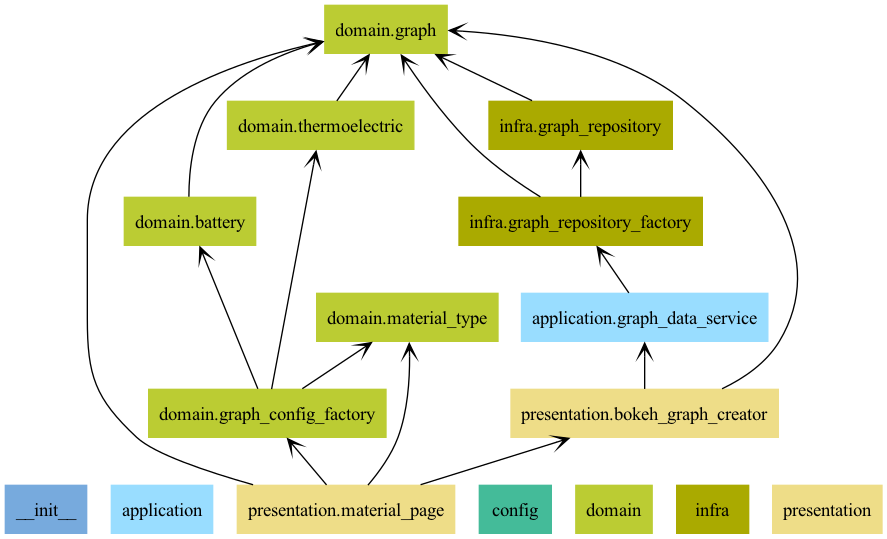
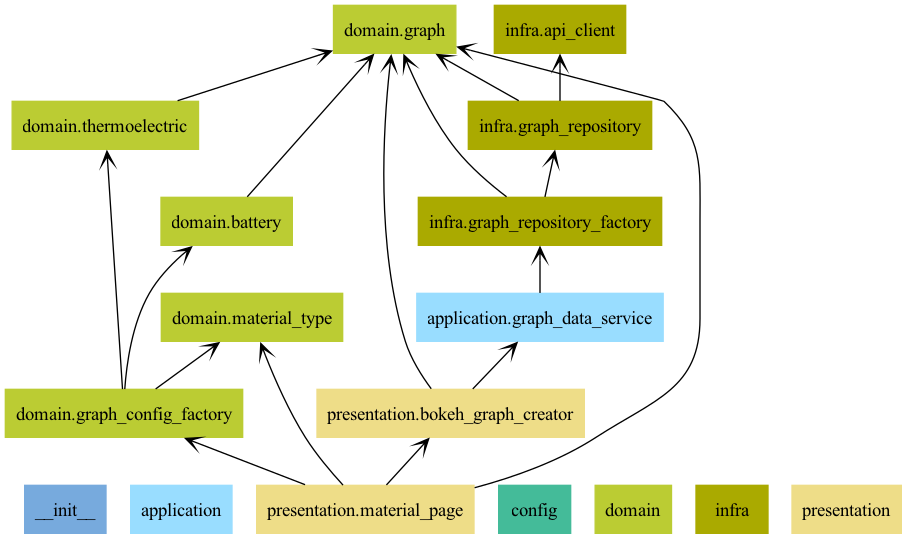
refactor: added api client to make a spec for API

diff --git a/src/infra/graph_repository.py b/src/infra/graph_repository.py
@@ -2,12 +2,18 @@ import os
 
 import requests
 from domain.graph import XYPoint, XYPoints, XYSeries, GraphRepository
+from infra.api_client import Starrydata2ApiClient, CleansingDatasetApiClient, XYApiResponse
 
 
 class GraphRepositoryApiStarrydata2(GraphRepository):
+    def __init__(self, api_client=None):
+        host = os.environ.get("STARRYDATA2_API_XY_DATA")
+        if not host:
+            raise ValueError("STARRYDATA2_API_XY_DATA environment variable is not set.")
+        self.api_client = api_client or Starrydata2ApiClient(host)
+
     def get_graph_by_property(self, property_x: str, property_y: str) -> XYSeries:
         # API呼び出し・データ取得処理は省略（必要に応じて実装）
-        # ここでは空リストを返す例
         return XYSeries(data=[])
 
     def get_graph_by_property_and_unit(self, property_x: str, property_y: str, unit_x: str, unit_y: str) -> XYSeries:
@@ -16,15 +22,14 @@ class GraphRepositoryApiStarrydata2(GraphRepository):
         最新データはJSTで前日0時以降のデータのみ取得すれば全件網羅できる。
         date_from, date_toが指定されていない場合は、date_fromをJST前日0時、date_toを現在時刻に自動設定する。
         """
+
         import pytz
         from datetime import datetime, timedelta
         JST = pytz.timezone('Asia/Tokyo')
         now = datetime.now(JST)
-        # 前日0時
         date_from_dt = (now - timedelta(days=1)).replace(hour=0, minute=0, second=0, microsecond=0)
         date_from = date_from_dt.isoformat()
         date_to = now.isoformat()
-        host = os.environ.get("STARRYDATA2_API_XY_DATA")
         params = {
             "property_x": property_x,
             "property_y": property_y,
@@ -32,15 +37,13 @@ class GraphRepositoryApiStarrydata2(GraphRepository):
             "unit_y": unit_y,
             "date_from": date_from,
             "date_to": date_to,
-            "limit": 100 # 上限値を設定
+            "limit": 100
         }
-        response = requests.get(f"{host}/", params=params)
-        response.raise_for_status()
-        data = response.json().get("data", {})
-        x_lists = data.get("x", [])
-        y_lists = data.get("y", [])
-        updated_at_lists = data.get("updated_at", [])
-
+        api_data: XYApiResponse = self.api_client.fetch_xy_data(params)
+        x_lists = api_data.x
+        y_lists = api_data.y
+        updated_at_lists = api_data.updated_at
+        sid_lists = api_data.SID or [str(i) for i in range(len(x_lists))]
         xy_series = []
         for i, (x_list, y_list) in enumerate(zip(x_lists, y_lists)):
             if x_list and y_list and len(x_list) == len(y_list):
@@ -48,21 +51,22 @@ class GraphRepositoryApiStarrydata2(GraphRepository):
                     raise ValueError("updated_at is required for each data series, but missing at index {}".format(i))
                 updated_at = updated_at_lists[i]
                 points = [XYPoint(x=xi, y=yi) for xi, yi in zip(x_list, y_list)]
-                xy_series.append(XYPoints(data=points, updated_at=updated_at, sid=f"sid_{i}"))
-
+                xy_series.append(XYPoints(data=points, updated_at=updated_at, sid=sid_lists[i]))
         return XYSeries(data=xy_series)
 
 class GraphRepositoryApiCleansingDataset(GraphRepository):
-    def get_graph_by_property(self, property_x: str, property_y: str) -> XYSeries:
+    def __init__(self, api_client=None):
         host = os.environ.get("STARRYDATA_BULK_DATA_API")
-        path = f"{host}/{property_x}-{property_y}.json"
-        response = requests.get(path)
-        response.raise_for_status()
-        data = response.json().get("data", {})
-        x_lists = data.get("x", [])
-        y_lists = data.get("y", [])
-        updated_at_lists = data.get("updated_at", [])
+        if not host:
+            raise ValueError("STARRYDATA_BULK_DATA_API environment variable is not set.")
+        self.api_client = api_client or CleansingDatasetApiClient(host)
 
+    def get_graph_by_property(self, property_x: str, property_y: str) -> XYSeries:
+        api_data: XYApiResponse = self.api_client.fetch_xy_data(property_x, property_y)
+        x_lists = api_data.x
+        y_lists = api_data.y
+        updated_at_lists = api_data.updated_at
+        sid_lists = api_data.SID or [str(i) for i in range(len(x_lists))]
         xy_series = []
         for i, (x_list, y_list) in enumerate(zip(x_lists, y_lists)):
             if x_list and y_list and len(x_list) == len(y_list):
@@ -70,9 +74,8 @@ class GraphRepositoryApiCleansingDataset(GraphRepository):
                     raise ValueError("updated_at is required for each data series, but missing at index {}".format(i))
                 updated_at = updated_at_lists[i]
                 points = [XYPoint(x=xi, y=yi) for xi, yi in zip(x_list, y_list)]
-                xy_series.append(XYPoints(data=points, updated_at=updated_at, sid=f"sid_{i}"))
+                xy_series.append(XYPoints(data=points, updated_at=updated_at, sid=sid_lists[i]))
         return XYSeries(data=xy_series)
 
     def get_graph_by_property_and_unit(self, property_x: str, property_y: str, unit_x: str, unit_y: str) -> XYSeries:
-        # このAPIは未実装。例外を投げて明示する。
         raise NotImplementedError("get_graph_by_property_and_unit is not implemented for bulk data API.")

diff --git a/src/tests/infra/test_api_client.py b/src/tests/infra/test_api_client.py
@@ -1,0 +1,96 @@
+import pytest
+from infra.api_client import XYApiResponse, Starrydata2ApiClient, CleansingDatasetApiClient
+from unittest.mock import patch
+
+# --- Starrydata2ApiClient ---
+def test_starrydata2_api_client_fetch_xy_data_success():
+    mock_json = {
+        "data": {
+            "x": [[1.0, 2.0], [3.0]],
+            "y": [[10.0, 20.0], [30.0]],
+            "updated_at": ["2025-06-01T00:00:00Z", "2025-06-01T01:00:00Z"],
+            "SID": ["sid1", "sid2"],
+            "figure_id": ["fig1", "fig2"],
+            "sample_id": ["sample1", "sample2"],
+            "composition": ["comp1", "comp2"]
+        }
+    }
+    class MockResponse:
+        def raise_for_status(self):
+            # This is a mock method for testing, so it does nothing
+            pass
+        def json(self):
+            return mock_json
+    with patch("requests.get", return_value=MockResponse()):
+        client = Starrydata2ApiClient("http://dummy")
+        params = {"property_x": "x", "property_y": "y"}
+        result = client.fetch_xy_data(params)
+        assert isinstance(result, XYApiResponse)
+        assert result.x == [[1.0, 2.0], [3.0]]
+        assert result.y == [[10.0, 20.0], [30.0]]
+        assert result.updated_at == ["2025-06-01T00:00:00Z", "2025-06-01T01:00:00Z"]
+        assert result.SID == ["sid1", "sid2"]
+        assert result.figure_id == ["fig1", "fig2"]
+        assert result.sample_id == ["sample1", "sample2"]
+        assert result.composition == ["comp1", "comp2"]
+
+# --- CleansingDatasetApiClient ---
+def test_cleansing_dataset_api_client_fetch_xy_data_success():
+    mock_json = {
+        "data": {
+            "x": [[5.0, 6.0]],
+            "y": [[50.0, 60.0]],
+            "updated_at": ["2025-06-01T02:00:00Z"],
+            "SID": ["sid3"],
+            "figure_id": ["fig3"],
+            "sample_id": ["sample3"],
+            "composition": ["comp3"]
+        }
+    }
+    class MockResponse:
+        def raise_for_status(self):
+            # This is a mock method for testing, so it does nothing
+            pass
+        def json(self):
+            return mock_json
+    with patch("requests.get", return_value=MockResponse()):
+        client = CleansingDatasetApiClient("http://dummy")
+        result = client.fetch_xy_data("x", "y")
+        assert isinstance(result, XYApiResponse)
+        assert result.x == [[5.0, 6.0]]
+        assert result.y == [[50.0, 60.0]]
+        assert result.updated_at == ["2025-06-01T02:00:00Z"]
+        assert result.SID == ["sid3"]
+        assert result.figure_id == ["fig3"]
+        assert result.sample_id == ["sample3"]
+        assert result.composition == ["comp3"]
+
+# --- Error cases ---
+def test_starrydata2_api_client_invalid_response():
+    # missing required fields
+    mock_json = {"data": {"x": [[1.0]], "y": [[2.0]]}}  # missing updated_at, SID, figure_id, sample_id, composition
+    class MockResponse:
+        def raise_for_status(self):
+            # This is a mock method for testing, so it does nothing
+            pass
+        def json(self):
+            return mock_json
+    with patch("requests.get", return_value=MockResponse()):
+        client = Starrydata2ApiClient("http://dummy")
+        params = {"property_x": "x", "property_y": "y"}
+        with pytest.raises(Exception):
+            client.fetch_xy_data(params)
+
+def test_cleansing_dataset_api_client_invalid_response():
+    # missing required fields
+    mock_json = {"data": {"x": [[1.0]], "y": [[2.0]]}}  # missing updated_at, SID, figure_id, sample_id, composition
+    class MockResponse:
+        def raise_for_status(self):
+            # This is a mock method for testing, so it does nothing
+            pass
+        def json(self):
+            return mock_json
+    with patch("requests.get", return_value=MockResponse()):
+        client = CleansingDatasetApiClient("http://dummy")
+        with pytest.raises(Exception):
+            client.fetch_xy_data("x", "y")

diff --git a/src/infra/api_client.py b/src/infra/api_client.py
@@ -1,0 +1,37 @@
+from typing import List
+from pydantic import BaseModel
+
+# XYApiResponseは下記APIレスポンス仕様を参考にしています：
+# - https://starrydata.github.io/bulk-data-api/v1/index.html#/default/get__prop_x___prop_y__json
+# - https://www.starrydata2.org/paperlist/openapi/#/default/get_xy_data_api_
+class XYApiResponse(BaseModel):
+    x: List[List[float]]
+    y: List[List[float]]
+    updated_at: List[str]
+    SID: List[str]
+    figure_id: List[str]
+    sample_id: List[str]
+    composition: List[str]
+
+class Starrydata2ApiClient:
+    def __init__(self, host: str):
+        self.host = host
+
+    def fetch_xy_data(self, params: dict) -> XYApiResponse:
+        import requests
+        response = requests.get(f"{self.host}/", params=params)
+        response.raise_for_status()
+        data = response.json().get("data", {})
+        return XYApiResponse(**data)
+
+class CleansingDatasetApiClient:
+    def __init__(self, host: str):
+        self.host = host
+
+    def fetch_xy_data(self, property_x: str, property_y: str) -> XYApiResponse:
+        import requests
+        path = f"{self.host}/{property_x}-{property_y}.json"
+        response = requests.get(path)
+        response.raise_for_status()
+        data = response.json().get("data", {})
+        return XYApiResponse(**data)

diff --git a/src/tests/infra/test_graph_repository.py b/src/tests/infra/test_graph_repository.py
@@ -97,7 +97,8 @@ def test_get_graph_by_property_and_unit_missing_updated_at_raises(mock_get):
     mock_get.return_value = mock_response_property_and_unit_missing_updated_at()
     os.environ["STARRYDATA2_API_XY_DATA"] = "http://dummy"
     repo = GraphRepositoryApiStarrydata2()
-    with pytest.raises(ValueError, match="updated_at is required"):
+    import pydantic
+    with pytest.raises(pydantic.ValidationError):
         repo.get_graph_by_property_and_unit(
             "Temperature",
             "Seebeck coefficient",
